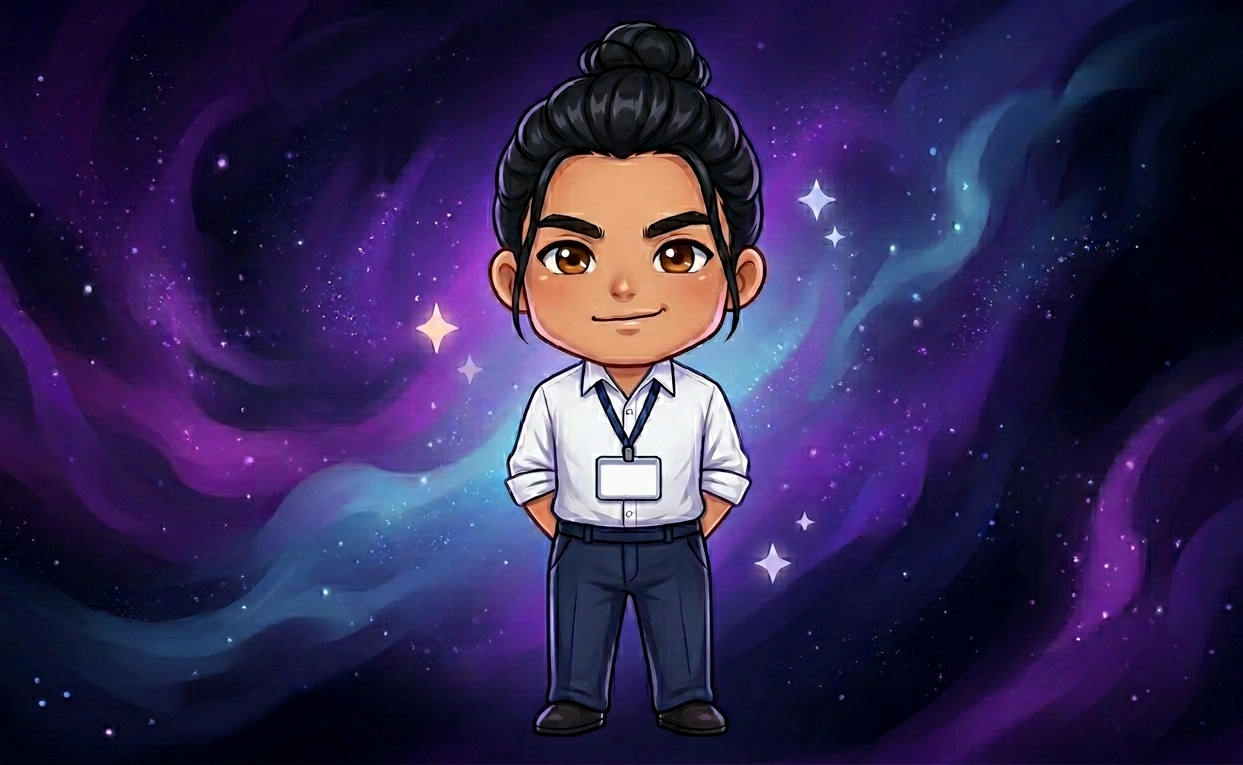
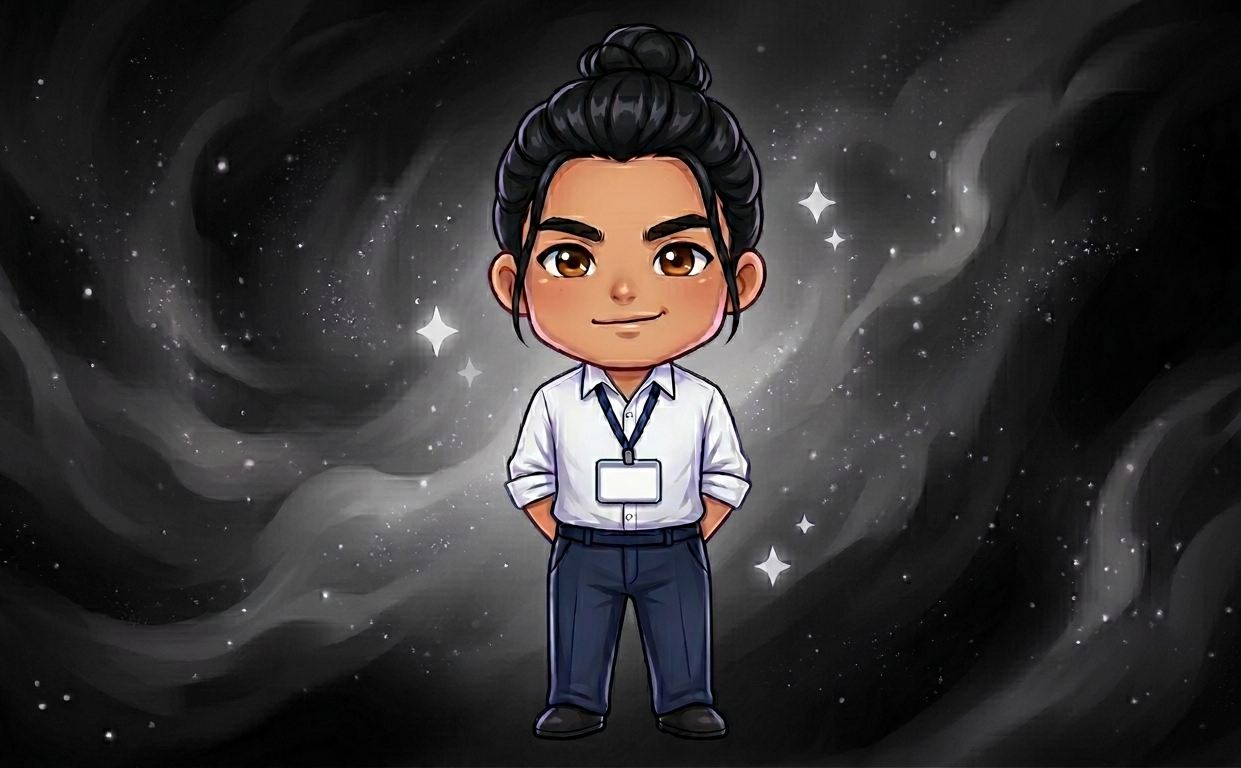
tmp

diff --git a/index.html b/index.html
@@ -334,12 +334,26 @@ https://templatemo.com/tm-592-glossy-touch
         </div>
     </div>
 
+
+    <!--Midterm Task 1-->
     <div id="midtask1" class="page">
         <div class="container">
             <div class="content-wrapper">
                 <div class="hero glass">
-                    <iframe src="https://view.officeapps.live.com/op/embed.aspx?src=https://drive.google.com/file/d/1Frpu68z_lIk48BBuSxCk043Gt4ygoOBj/view" frameborder="0" width="100%" height="500"></iframe>
+                    <h1>Midterm Task 1. Data Cleaning and Preparation using Excel</h1>
+                    <p>&emsp;&emsp;This task involves cleaning and preparing a raw dataset in Microsoft Excel to improve its quality and usability. The process starts by examining the data to identify common issues such as duplicates, missing values, inconsistent formatting, and incorrect entries. Each problem is then addressed using Excel tools like Conditional Formatting, Text to Columns, TRIM, and Find and Replace. The data is organized by separating combined fields, removing extra spaces, standardizing text case, and correcting invalid values. Spelling and formatting are also reviewed to ensure consistency. The final result is a clean and structured dataset that supports accurate analysis and better decision-making.</p>
                 </div>
+                <section class="contact-map-section">
+                    <div class="contact-map glass">
+                    <h1 >Preview</h1>
+                        <div class="map-container" style="text-align: center; margin-top: 3%;">
+                            <h2>Clean Dataset.xlsx</h2>
+                            <iframe src="https://view.officeapps.live.com/op/embed.aspx?src=https://raw.githubusercontent.com/MrZeeGaming/DtAnltcsPortfolio/main/files/Clean%20Dataset.xlsx" frameborder="0" width="95%" height="500" style="border-radius: 10px; overflow: hidden;" ></iframe>
+                        </div>
+                        <br>
+                        <a class="cta-button" href="https://raw.githubusercontent.com/MrZeeGaming/DtAnltcsPortfolio/main/files/Clean%20Dataset.xlsx">Download</a>
+                    </div>
+                </section>
             </div>
         </div>
     </div>

diff --git a/templatemo-glossy-touch.css b/templatemo-glossy-touch.css
@@ -19,15 +19,15 @@ https://templatemo.com/tm-592-glossy-touch
 body {
     font-family: "Segoe UI", Tahoma, Geneva, Verdana, sans-serif;
     background: linear-gradient(
-        135deg,
-        #0c0c0c 0%,
-        #1a1a2e 15%,
-        #16213e 35%,
-        #0f3460 50%,
-        #533a7d 70%,
-        #8b5a8c 85%,
-        #a0616a 100%
-    );
+    135deg,
+    #0c0c0c 0%,
+    #141414 15%,
+    #1f1f1f 35%,
+    #2a2a2a 50%,
+    #3a3a3a 70%,
+    #4a4a4a 85%,
+    #5a5a5a 100%
+);
     min-height: 100vh;
     overflow-x: hidden;
 }
@@ -113,19 +113,20 @@ body {
 }
 /* Glass container styles */
 .glass {
-    background: rgba(255, 255, 255, 0.15);
-    backdrop-filter: blur(20px);
-    border: 1px solid rgba(255, 255, 255, 0.2);
-    border-radius: 20px;
-    box-shadow: 0 8px 32px rgba(0, 0, 0, 0.1);
-    transition: all 0.3s ease;
-    position: relative;
-    overflow: hidden;
+    background: rgba(0, 0, 0, 0.25);
+backdrop-filter: blur(20px);
+border: 1px solid rgba(255, 255, 255, 0.2);
+border-radius: 20px;
+box-shadow: 0 8px 32px rgba(0, 0, 0, 0.2);
+transition: all 0.3s ease;
+position: relative;
+overflow: hidden;
 }
 .glass:hover {
-    background: rgba(255, 255, 255, 0.2);
+    background: rgba(30, 30, 30, 0.5); /* dark base */
     transform: translateY(-5px);
-    box-shadow: 0 15px 45px rgba(0, 0, 0, 0.15);
+    box-shadow: 0 15px 45px rgba(0, 0, 0, 0.25);
+    border: 1px solid rgba(255, 255, 255, 0.25); /* subtle highlight */
 }
 /* Header styles */
 header {
@@ -578,7 +579,7 @@ button[type="submit"] {
 }
 .map-container {
     width: 100%;
-    height: 500px;
+    height: 600px;
     background: rgba(255, 255, 255, 0.1);
     border-radius: 15px;
     border: 1px solid rgba(255, 255, 255, 0.2);
